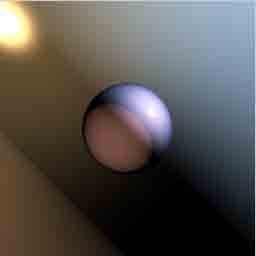
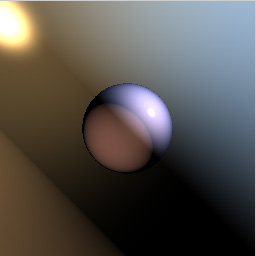
update

diff --git a/examples.cpp b/examples.cpp
@@ -401,7 +401,7 @@ int main(int argc, char* argv[])
 				uv = uv * 2.0f - 1.0f ;
 				uv.x = uv.x * WIDTH / HEIGHT ;
 				vec3 color ;
-				color = triangleRender ( uv ) ;
+				color = oceanRender ( uv ) ;
 				DebugDraw::draw ( x , y , color.x , color.y , color.z , 1.0f ) ;
 				x = ( int ) ( WIDTH * counter ) ;
 				printf ( "Rendering : %d %%\n" , (int )(looper * 100.0f) );
